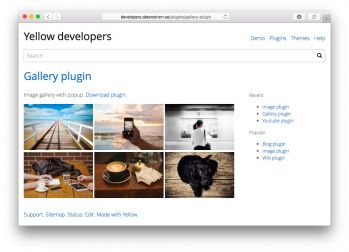
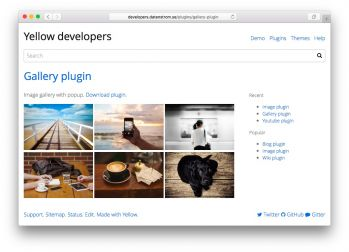
Hello developers (system update)

diff --git a/system/themes/knowhow.css b/system/themes/knowhow.css
@@ -1,4 +1,5 @@
-/* Knowhow theme 0.6.3 */
+/* Knowhow theme */
+/* Version: 0.6.4 */
 /* Designer: Mark Mayberg */
 
 html, body, div, form, pre, span, tr, th, td { margin:0; padding:0; border:0; vertical-align:baseline; }
@@ -45,6 +46,9 @@ a, img { border:none; text-decoration:none; }
 .footer { margin-top:1em; padding-top:1em; border-top:1px solid #eee; clear:both; }
 .footer a { color:#4183c4; }
 .footer a:hover { color:#4183c4; text-decoration:underline; }
+.footer-left { float:left; }
+.footer-right { float:right; }
+.footer-banner { clear:both; }
 .left { float:left; margin:0 1em 0 0; }
 .center { display:block; margin:0 auto; }
 .right { float:right; margin:0 0 0 1em; }
@@ -139,7 +143,8 @@ a, img { border:none; text-decoration:none; }
 	.sitename-logo { width:24px; height:24px; }
 	.navigation-search { padding-top:0.5em; }
 	.with-sidebar .main { margin-right:0em; }
-	.with-sidebar .sidebar { display:none; }	
+	.with-sidebar .sidebar { display:none; }
+	.footer-right { display:none; }
 }
 @media print {
 	body, h1, h2, h3, h4, h5, h6 { background-color:white; color:black; }

diff --git a/system/themes/flatsite.css b/system/themes/flatsite.css
@@ -1,4 +1,5 @@
-/* Flatsite theme 0.6.3 */
+/* Flatsite theme */
+/* Version: 0.6.4 */
 /* Designer: Mark Mayberg */
 
 @import url(https://fonts.googleapis.com/css?family=Open+Sans:300,400,700);
@@ -48,6 +49,9 @@ a, img { border:none; text-decoration:none; }
 .footer { margin-top:2em; clear:both; }
 .footer a { color:#07d; }
 .footer a:hover { color:#07d; text-decoration:underline; }
+.footer-left { float:left; }
+.footer-right { float:right; }
+.footer-banner { clear:both; }
 .left { float:left; margin:0 1em 0 0; }
 .center { display:block; margin:0 auto; }
 .right { float:right; margin:0 0 0 1em; }
@@ -130,6 +134,7 @@ a, img { border:none; text-decoration:none; }
 	.navigation-search { padding-top:0.5em; }
 	.with-sidebar .main { margin-right:0em; }
 	.with-sidebar .sidebar { display:none; }
+	.footer-right { display:none; }
 }
 @media print {
 	body, h1, h2, h3, h4, h5, h6 { background-color:white; color:black; }

diff --git a/system/themes/blogsite.css b/system/themes/blogsite.css
@@ -1,4 +1,5 @@
-/* Blogsite theme 0.6.3 */
+/* Blogsite theme */
+/* Version: 0.6.4 */
 /* Designer: Mark Mayberg */
 
 html, body, div, form, pre, span, tr, th, td { margin:0; padding:0; border:0; vertical-align:baseline; }
@@ -50,6 +51,7 @@ a, img { border:none; text-decoration:none; }
 .footer { margin:1.5em; text-align:center; clear:both; }
 .footer a { color:#07d; }
 .footer a:hover { color:#07d; text-decoration:underline; }
+.footer-left, .footer-right { float:none; }
 .left { float:left; margin:0 1em 0 0; }
 .center { display:block; margin:0 auto; }
 .right { float:right; margin:0 0 0 1em; }

diff --git a/system/plugins/emojiawesome.css b/system/plugins/emojiawesome.css
@@ -1,4 +1,4 @@
-/* Emojiawesome plugin 0.6.2 */
+/* Emojiawesome plugin 0.6.3 */
 
 .ea {
 	display: inline-block;

diff --git a/system/plugins/emojiawesome.php b/system/plugins/emojiawesome.php
@@ -5,7 +5,7 @@
 // Emojiawesome plugin
 class YellowEmojiawesome
 {
-	const Version = "0.6.2";
+	const Version = "0.6.3";
 	var $yellow;			//access to API
 	
 	// Handle initialisation
@@ -14,10 +14,10 @@ class YellowEmojiawesome
 		$this->yellow = $yellow;
 		$this->yellow->config->setDefault("emojiawesomeCdn", "https://cdnjs.cloudflare.com/ajax/libs/twemoji/2.0.0/");
 		$this->yellow->config->setDefault("emojiawesomeStylesheetGenerate", "0");
-		$this->yellow->config->setDefault("emojiawesomeNormaliseUnicode", "0");
+		$this->yellow->config->setDefault("emojiawesomeNormaliseText", "0");
 	}
 	
-	// Handle page content parsing of custom blocks
+	// Handle page content parsing of custom block
 	function onParseContentBlock($page, $name, $text, $shortcut)
 	{
 		$output = NULL;
@@ -32,11 +32,6 @@ class YellowEmojiawesome
 				$output .= " title=\"".htmlspecialchars(":$shortname:")."\"";
 				$output .= "></i>";
 			}
-		} else if(($name=="emojifyText") && $shortcut) {
-			if($this->yellow->config->get("emojiawesomeNormaliseUnicode")) $text = $this->normaliseUnicode($text);
-			$output = preg_replace_callback("/\:([\w\+\-\_]+)\:/", array(&$this, "callbackEmojify"), $text);
-		} else if(($name=="emojifyNormalise") && $shortcut) {
-			$output = $this->normaliseUnicode($text);
 		}
 		return $output;
 	}
@@ -44,7 +39,7 @@ class YellowEmojiawesome
 	// Handle page content parsing
 	function onParseContentText($page, $text)
 	{
-		if($this->yellow->config->get("emojiawesomeNormaliseUnicode")) $text = $this->normaliseUnicode($text);
+		if($this->yellow->config->get("emojiawesomeNormaliseText")) $text = $this->normaliseText($text, true, false);
 		return $text;
 	}
 
@@ -80,11 +75,28 @@ class YellowEmojiawesome
 		return strreplaceu(array("+1", "-1", "_"), array("plus1", "minus1", "-"), $text);
 	}
 	
-	// Normalise emoji UTF-8 into shortname
-	function normaliseUnicode($text)
+	// Normalise text with emoji, convert UTF8 and shortcode
+	function normaliseText($text, $convertUtf8 = true, $convertShortcode = true)
 	{
-		$lookup = $this->getReverseLookupData();
-		return str_replace(array_keys($lookup), array_values($lookup), $text);
+		if($convertUtf8)
+		{
+			$lookup = array();
+			foreach($this->getLookupData() as $entry) $lookup[$entry["utf8"]] = ":".$entry["shortname"].":";
+			krsort($lookup);
+			$text = str_replace(array_keys($lookup), array_values($lookup), $text);
+		}
+		if($convertShortcode)
+		{
+			$thisCompatible = $this;
+			$callback = function($matches) use ($thisCompatible)
+			{
+				$output = $thisCompatible->onParseContentBlock(null, "", $matches[1], true);
+				if(is_null($output)) $output = $matches[0];
+				return $output;
+			};
+			$text = preg_replace_callback("/\:([\w\+\-\_]+)\:/", $callback, $text);
+		}
+		return $text;
 	}
 	
 	// Check if emoji shortname exists
@@ -95,14 +107,6 @@ class YellowEmojiawesome
 		return $found;
 	}
 	
-	// Callback for emoji replace function
-	function callbackEmojify($matches)
-	{
-		$output = $this->onParseContentBlock(null, "", trim($matches[1]), true);
-		if(is_null($output)) $output = htmlspecialchars($matches[0], ENT_NOQUOTES);
-		return $output;
-	}
-
 	// Return emoji lookup data
 	function getLookupData()
 	{
@@ -937,15 +941,6 @@ class YellowEmojiawesome
 			array("shortname"=>"x", "utf8"=>"\xe2\x9d\x8c", "image"=>"274c"),
 			array("shortname"=>"zero", "utf8"=>"", "image"=>"30-20e3"),
 		);
-	}
-
-	// Return utf8 to shortname lookup data
-	function getReverseLookupData()
-	{
-		$lookup = array();
-		foreach($this->getLookupData() as $entry) $lookup[$entry["utf8"]] = ":".$entry["shortname"].":";
-		krsort($lookup);
-		return $lookup;
 	}
 }
 

diff --git a/system/themes/snippets/footer.php b/system/themes/snippets/footer.php
@@ -1,10 +1,18 @@
 <div class="footer">
+<div class="footer-left">
 <a href="<?php echo $yellow->page->base."/help/support" ?>">Support</a>.
 <a href="<?php echo $yellow->page->base."/sitemap/" ?>">Sitemap</a>.
 <a href="<?php echo $yellow->page->base."/help/status" ?>">Status</a>.
 <a href="<?php echo $yellow->page->get("pageEdit") ?>">Edit</a>.
 <a href="http://datenstrom.se/yellow">Made with Yellow</a>.
 </div>
+<div class="footer-right">
+<a href="https://twitter.com/datenstromse"><i class="fa fa-twitter"></i> Twitter</a> 
+<a href="https://github.com/datenstrom"><i class="fa fa-github"></i> GitHub</a> 
+<a href="https://gitter.im/datenstrom/yellow"><i class="fa fa-comment"></i> Gitter</a> 
+</div>
+</div>
+<div class="footer-banner"></class>
 </div>
 <?php echo $yellow->page->getExtra("footer") ?>
 </body>

diff --git a/system/plugins/core.php b/system/plugins/core.php
@@ -223,10 +223,10 @@ class YellowCore
 		if(defined("DEBUG") && DEBUG>=1)
 		{
 			foreach($this->page->headerData as $key=>$value) echo "YellowCore::sendPage $key: $value<br/>\n";
-			$fileNameTheme = $this->config->get("themeDir").$this->page->get("theme").".css";
-			$templateName = $this->page->get("template");
-			$parserName = $this->page->get("parser");
-			echo "YellowCore::sendPage theme:$fileNameTheme template:$templateName parser:$parserName<br/>\n";
+			$theme = $this->page->get("theme");
+			$template = $this->page->get("template");
+			$parser = $this->page->get("parser");
+			echo "YellowCore::sendPage theme:$theme template:$template parser:$parser<br/>\n";
 		}
 		return $statusCode;
 	}

diff --git a/system/plugins/markdown.php b/system/plugins/markdown.php
@@ -90,7 +90,7 @@ class YellowMarkdownParser extends MarkdownExtraParser
 	// Handle shortcodes
 	function _doAutoLinks_shortcode_callback($matches)
 	{
-		$output = $this->page->parseContentBlock("", trim($matches[1]), true);
+		$output = $this->page->parseContentBlock("", $matches[1], true);
 		if(is_null($output)) $output = htmlspecialchars($matches[0], ENT_NOQUOTES);
 		return $this->hashPart($output);
 	}
